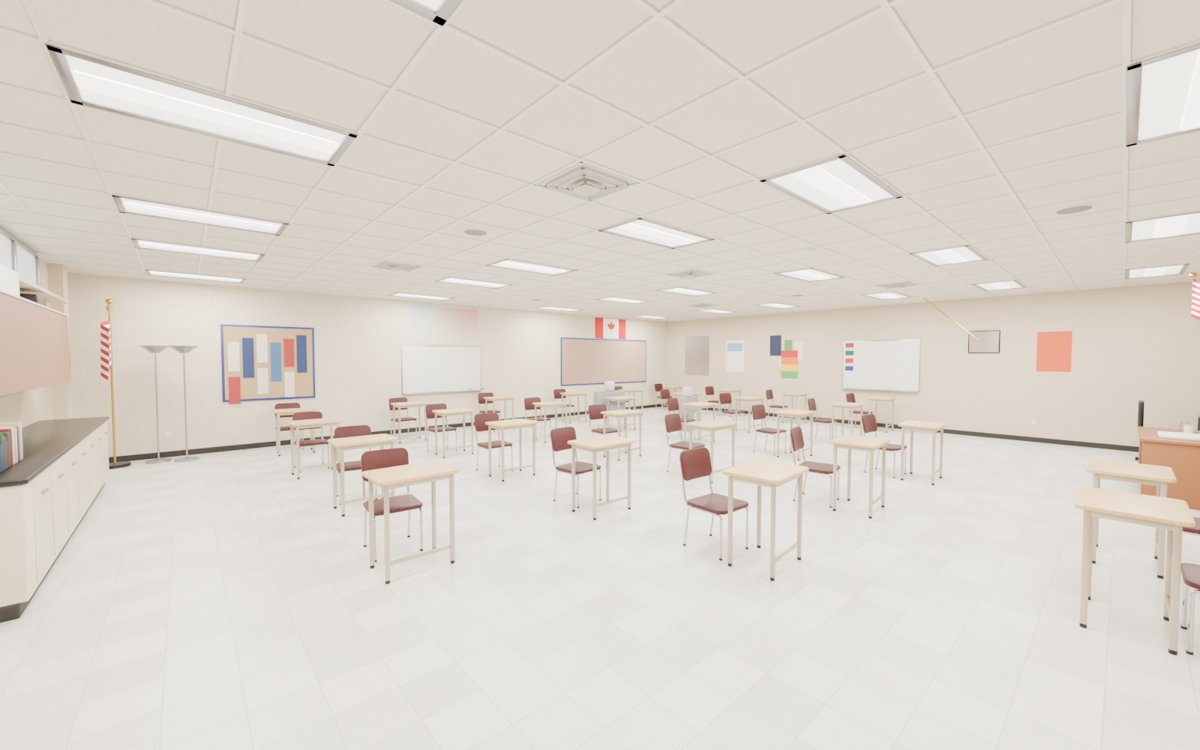
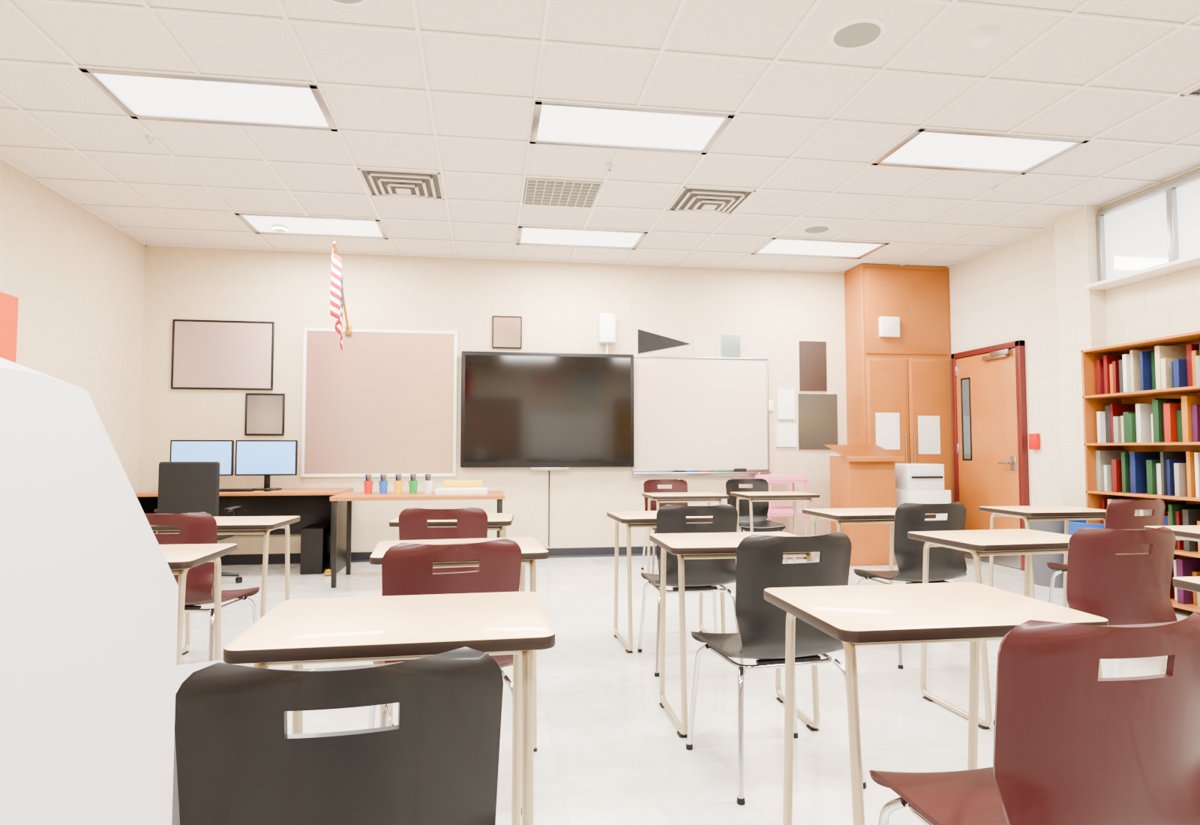
True-to-life HD version at R6 scale

diff --git a/README.md b/README.md
@@ -1,12 +1,12 @@
 # Empty Classroom
 
-## HD version for Roblox (R6 scale)
+## HD version for Roblox (true to life, R6 scale)
 
-![HD preview with R6 scale dummies](preview_hd.jpg)
+![HD preview](preview_hd.jpg)
 
-**Download:** [classroom_hd.zip](https://github.com/155xp/empty-classroom-model/releases/download/v2/classroom_hd.zip)
+**Download:** [classroom_hd.zip](https://github.com/155xp/empty-classroom-model/releases/latest/download/classroom_hd.zip)
 
-About 223k triangles. `classroom_roblox.glb` is already in studs and sized for R6 players (1 m = 5 studs; chairs fit an R6, room is about 72 x 63 x 15 studs with desks spaced 1.5x apart) and split into 292 parts, each with one material and under Roblox's 20k-triangle limit. Also includes the Blender source in meters.
+About 392k triangles. The room is modeled 1:1 from the photos (8.5 x 9.75 m, 3.2 m ceiling) with real furniture sizes. `classroom_roblox.glb` is already in studs (1 m = 5 studs, so a seated R6 matches a seated student; room is about 42.5 x 49 x 16 studs) and split into 413 single-material parts under Roblox's 20k-triangle limit. Also includes the Blender source in meters.
 
 ## Original low-poly version
 
